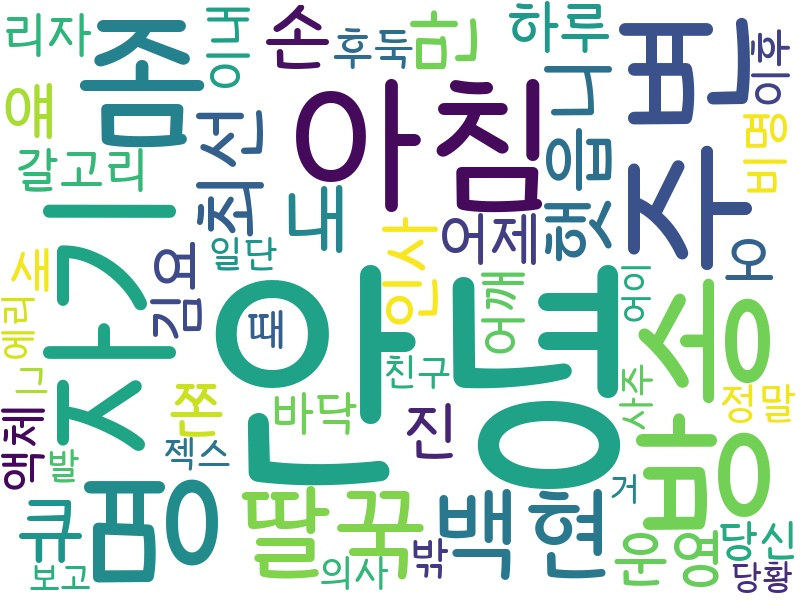
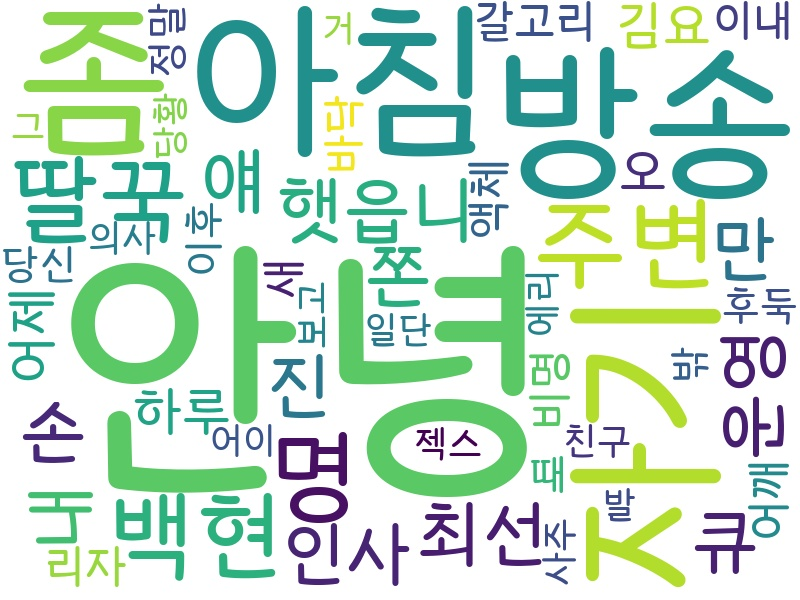
날짜 입력 기능

diff --git a/showyou/views.py b/showyou/views.py
@@ -17,22 +17,8 @@ from django.http import JsonResponse
 
 def index(request):
     # sentiment_analysis.Sentiment_Analysis()
-    keyword_wordcloud.total_wordcloud()
+    # keyword_wordcloud.total_wordcloud()
     return render(request, 'showyou/index.html') 
-
-# 
-# def data(request):     
-#     x = np.array(['2017-07-10', '2017-07-11', '2017-07-12', '2017-07-13', '2017-07-14'])
-#     # post_list = mongo_connection.post_id_find()
-#     # x = np.array(post_list)
-#     y = np.array([58.13, 53.98, 67.00, 89.70, 99.00])
-#     # myData = json.dumps([{"date": str(x[i]), "close": y[i]} for i in range(5)])
-#     myData = json.dumps([{"date": x[i] , "close": y[i]} for i in range(5)])
-#     return JsonResponse(myData, safe=False)
-
-# def sentiment(request):
-#     return render(request, 'showyou/sentiment_result.html', context=None)
-
 
 def generic(request):
     # keyword_wordcloud.total_wordcloud()
@@ -43,10 +29,13 @@ def elements(request):
 
 def twitter(request):
     search_keyword = request.GET.get('search_keyword', '')
+    date = request.GET.get('date')
+    print(date)
     if search_keyword:
         print("있는 경우")
+        print(date)
         print('search_keyword = ' + search_keyword)
-        twitter_parser_total.parsing(search_keyword,'m')
+        twitter_parser_total.parsing(search_keyword,'date')
         textmining.analysis()
         # keyword_wordcloud.show()
         return render(request, 'showyou/twitter_result.html')
@@ -56,23 +45,27 @@ def twitter(request):
 
 def twitter_user(request):
     search_keyword = request.GET.get('search_keyword', '')
+    date = request.GET.get('date')
+    print(date)
     if search_keyword:
         print("있는 경우")
         print('search_keyword = ' + search_keyword)
-        twitter_parser_total.parsing(search_keyword,'m')
+        twitter_parser_total.parsing(search_keyword,'date')
         textmining.analysis()
-        return render(request, 'showyou/twitter.html')
+        return render(request, 'showyou/twitter_user.html')
     else :
         print("없는 경우")
-        return render(request, 'showyou/twitter.html') 
+        return render(request, 'showyou/twitter_user.html') 
 
 def blog(request):
     print("blog 크롤링")
     search_keyword = request.GET.get('search_keyword', '')
+    date = request.GET.get('date')
+    print(date)
     print('search_keyword = ' + search_keyword)
     if search_keyword:
         print("있는 경우")
-        blog_parser_total.parsing(search_keyword,'m')
+        blog_parser_total.parsing(search_keyword,'date')
         # blog_parser_personal.parsing(search_keyword)
         textmining.analysis()
         return render(request, 'showyou/blog.html') 
@@ -83,32 +76,34 @@ def blog(request):
 def blog_user(request):
     print("blog 크롤링")
     search_keyword = request.GET.get('search_keyword', '')
+    date = request.GET.get('date')
+    print(date)
     print('search_keyword = ' + search_keyword)
     if search_keyword:
         print("있는 경우")
-        blog_parser_total.parsing(search_keyword,'m')
+        blog_parser_total.parsing(search_keyword,'date')
         # blog_parser_personal.parsing(search_keyword)
         textmining.analysis()
-        return render(request, 'showyou/blog.html') 
+        return render(request, 'showyou/blog_user.html') 
     else :
         print("없는 경우")
-        return render(request, 'showyou/blog.html') 
+        return render(request, 'showyou/blog_user.html') 
 
-def instagram_user(request):
-    print("instagram 크롤링")
-    search_keyword = request.GET.get('search_keyword', '')
-    print('search_keyword = ' + search_keyword)
-    if search_keyword:
-        print("있는 경우")
-        instagram_parser_personal.parsing(search_keyword)
-        textmining.analysis()
-        return render(request, 'showyou/instagram_user.html')
-    else :
-        print("없는 경우")   
-        return render(request, 'showyou/instagram_user.html')
-    
 def instagram(request):
     search_keyword = request.GET.get('search_keyword', '')
+    if search_keyword:
+        print("있는 경우")
+        print('search_keyword = ' + search_keyword)
+        twitter_parser_total.parsing(search_keyword,'m')
+        #textmining.analysis()
+        return render(request, 'showyou/instagram.html')
+    else :
+        print("없는 경우")
+        return render(request, 'showyou/instagram.html')
+    
+def instagram_user(request):
+    search_keyword = request.GET.get('search_keyword', '')
+    
     if search_keyword:
         print("있는 경우")
         print('search_keyword = ' + search_keyword)
@@ -118,3 +113,4 @@ def instagram(request):
     else :
         print("없는 경우")
         return render(request, 'showyou/instagram_user.html')
+
